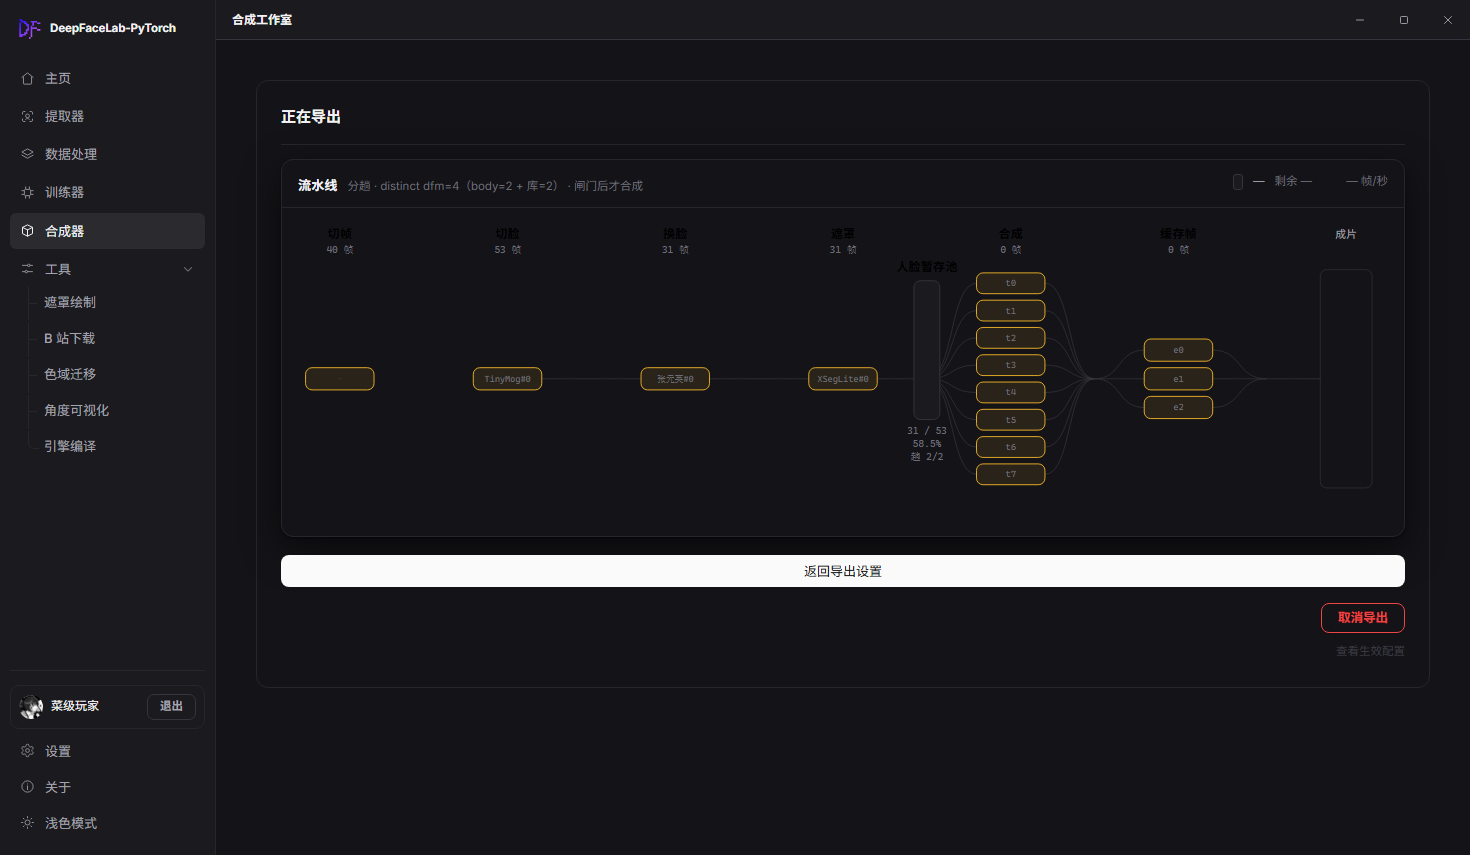
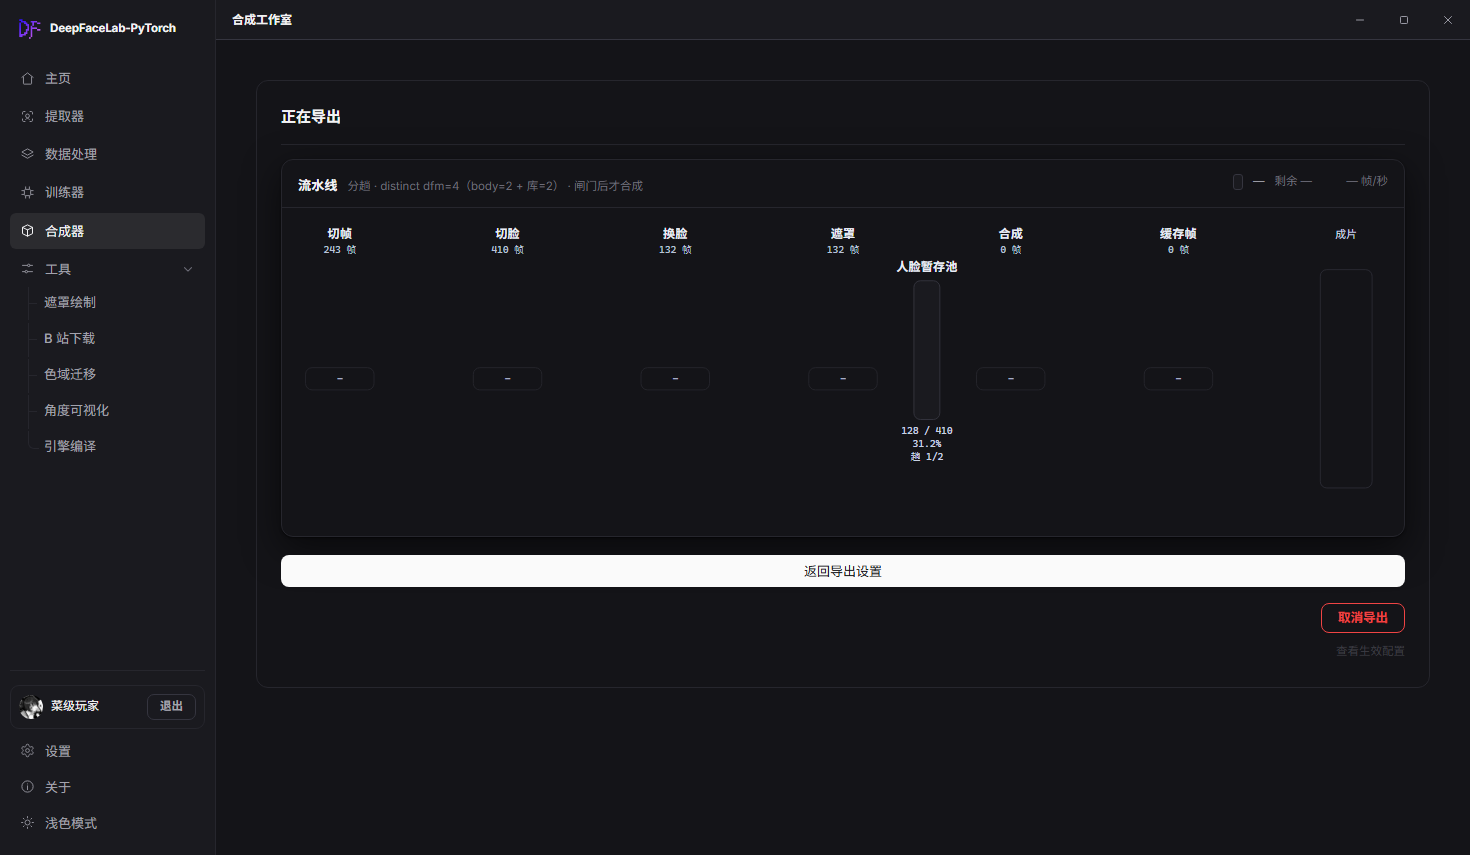
fix(ui): 分趟图上的字提亮 —— 深底上终于看得清
用户：文字颜色有问题，根本看不清。
原因：这些文字用的是 --ink-2 / --ink-3（次要色），在 #14151a 底上对比度太低；
另外 18-bypass 的「卡住 >600ms」逻辑把分趟的每一列都判成琥珀色（一趟一顿地跑，天然超时）。

改动（只改颜色，不动布局）：
  · 18-bypass：window.__mgMode === 'passes' 时不打 stall 标记；
  · 21：分趟轮询里把 #mgPipeSvg 内所有文字统一提亮 ——
    列标题 #e8ecf5、计数 #b9c2d6、其余（lane） #c9d2e4；
  · 列标题下的计数直接由 stages.ticks 写（paint 的 counts 通道在分趟这条路上不认）；
  · 后端：池的读数改成边跑边长（每 8 张脸刷一次 meta），不再等整趟结束。

无头 Edge 实测截图（跑到换脸中途）：
  切帧 243 帧 · 切脸 410 帧 · 换脸 132 帧 · 遮罩 132 帧 · 合成 0 · 缓存帧 0
  人脸暂存池 128 / 410 · 31.2% · 趟 1/2
  app/docs/notes/passes_live.png

还差的两点（没装成修好）：lane 方块里那行仍是占位「-」；池子的水位方块还没填上。

diff --git a/app/web/js/app/21-pipe-phases.js b/app/web/js/app/21-pipe-phases.js
@@ -57,14 +57,14 @@
                                  'class': 'water poolwater',
                                  style: 'fill:#4ea1ff;fill-opacity:.55' }));
     }
-    var t0 = el('text', { x: a.x, y: a.top - 10, 'text-anchor': 'middle', 'class': 't-stage' });
+    var t0 = el('text', { x: a.x, y: a.top - 10, 'text-anchor': 'middle', 'class': 't-stage', style: 'fill:#e8ecf5' });
     t0.textContent = '人脸暂存池'; g.appendChild(t0);
-    var t1 = el('text', { x: a.x, y: a.top + a.h + 16, 'text-anchor': 'middle', 'class': 't-count' });
+    var t1 = el('text', { x: a.x, y: a.top + a.h + 16, 'text-anchor': 'middle', 'class': 't-count', style: 'fill:#c9d2e4' });
     t1.textContent = scanning ? (faces + ' 张') : (faces + ' / ' + total); g.appendChild(t1);
-    var t2 = el('text', { x: a.x, y: a.top + a.h + 30, 'text-anchor': 'middle', 'class': 't-count' });
+    var t2 = el('text', { x: a.x, y: a.top + a.h + 30, 'text-anchor': 'middle', 'class': 't-count', style: 'fill:#c9d2e4' });
     t2.textContent = scanning ? '已发现（还在涨）' : (Math.round(pct * 1000) / 10) + '%'; g.appendChild(t2);
     var pi = d.pass_info || {};
-    var t3 = el('text', { x: a.x, y: a.top + a.h + 44, 'text-anchor': 'middle', 'class': 't-count' });
+    var t3 = el('text', { x: a.x, y: a.top + a.h + 44, 'text-anchor': 'middle', 'class': 't-count', style: 'fill:#c9d2e4' });
     t3.textContent = pi.i ? ('趟 ' + pi.i + '/' + pi.n) : ''; g.appendChild(t3);
     svg.appendChild(g);
   }
@@ -82,12 +82,54 @@
     if (!svg || document.visibilityState === 'hidden') return;
     fetch('/api/merge/export/status').then(function (r) { return r.json(); }).then(function (d) {
       syncSub(d);
+      window.__mgMode = (d && d.mode) || '';
       if (d && d.mode === 'passes') window.__mgPoolAfter = (d.mask_on === false) ? 'dfm' : 'xseg';
       /* 分趟这条路没有自己的轮询驱动经典图 —— 这里把 status 交给它，
          否则 lane 永远是「— 帧」、光点一次都不放（用户看到的就是"没动画"）。 */
       if (d && d.mode === 'passes') {
         try {
           if (typeof mgpStatusPaint === 'function') mgpStatusPaint(d);
+          /* 经典图里未点亮的 lane 用的是 --ink-3，深底上几乎看不见；
+             分趟这条路把字提亮一档（只改 fill，不动布局）。 */
+          var _svg = document.getElementById('mgPipeSvg');
+          if (_svg) {
+            /* 列标题下那行计数自己写：paint() 的 counts 通道在分趟这条路上不认
+               （它走 MGP 的 idx/counts，不是 stages），这里是唯一的真数来源。 */
+            var _sg = d.stages || {};
+            var _want = ["frames", "det", "dfm", "xseg", "compose", "encode"];
+            var _titles = [].slice.call(_svg.querySelectorAll('text.t-stage'));
+            var _counts = [].slice.call(_svg.querySelectorAll('text.t-count'));
+            _titles.forEach(function (t, i) {
+              var k = _want[i];
+              if (!k || !_counts[i]) return;
+              var v = (_sg[k] || {}).ticks;
+              if (typeof v === 'number') _counts[i].textContent = v + ' 帧';
+            });
+            var _laneName = {
+              frames: '解码', det: 'TinyMog#0',
+              dfm: ((d.pass_info || {}).label || '模型') + '#0',
+              xseg: 'XSegLite#0', compose: 't0', encode: 'e0'
+            };
+            _titles.forEach(function (t, i) {
+              var k = _want[i];
+              if (!k) return;
+              var col = t.parentNode;
+              if (!col) return;
+              var lt = col.querySelector('text.t-lane');
+              if (lt) {
+                var _cur = (lt.textContent || '').trim();
+                if (!_cur || _cur === '—' || _cur === '–' || _cur === '-') lt.textContent = _laneName[k] || k;
+              }
+            });
+            /* 深底上看不清的根因：这些文字用的是 --ink-2/--ink-3（次要色）。
+               分趟这条路统一提亮：标题 #e8ecf5、计数 #b9c2d6、其余 #c9d2e4。 */
+            [].slice.call(_svg.querySelectorAll('text')).forEach(function (t) {
+              var c = t.getAttribute('class') || '';
+              if (c.indexOf('t-stage') >= 0) t.style.fill = '#e8ecf5';
+              else if (c.indexOf('t-count') >= 0) t.style.fill = '#b9c2d6';
+              else t.style.fill = '#c9d2e4';
+            });
+          }
           else if (typeof window.mgpPipe === 'function') window.mgpPipe(d);
         } catch (e) { /* 渲染器内部报错不影响轮询 */ }
       }

diff --git a/app/web/js/app/18-bypass.js b/app/web/js/app/18-bypass.js
@@ -311,7 +311,7 @@
           wants.push(delta > 0 ? delta : 0);
           if (delta > 0) total += delta;
           /* 卡住 = 还在跑 + 这一段没完成 + 已经 >600ms 没 tick（tick 一恢复就自动复原） */
-          markStall(k, running && state[k] !== "done" &&
+          markStall(k, window.__mgMode !== "passes" && running && state[k] !== "done" &&
                        (t - (lastAt[k] || t)) > STALL_MS);
         }
         /* 这一拍放多少个光点：按 PULSE_PER_S 折算的预算**按比例**稀释（各段比例不变），

diff --git a/app/server/backend_merge/pipeline_passes.py b/app/server/backend_merge/pipeline_passes.py
@@ -143,12 +143,23 @@ def run(cfg, log=print, progress=None, cancelled=None) -> dict:
                  "pass_label": nm, "faces_done": done_faces,
                  "faces_total": total_faces, "pool": done_faces,
                  "mask_on": bool(_mask_on), "frozen": True})
+        _live = {"faces": 0}
+
         def _on_face(n, _nm=nm):
             try:
                 _METER.tick("dfm", n)
                 if _mask_on:
                     _METER.tick("xseg", n)
                 _METER.note_batch({"dfm": n})
+                _live["faces"] += int(n)
+                if _live["faces"] % 8 == 0:          # 池子边跑边长，别等整趟结束
+                    _p(2 + int(40 * (k - 1) / max(1, len(todo))),
+                       "分趟导出：第 %d/%d 趟 · %s" % (k, len(todo), _nm),
+                       meta={"phase": "pass", "pass_i": k, "pass_n": len(todo),
+                             "pass_label": _nm, "faces_done": done_faces + _live["faces"],
+                             "faces_total": total_faces,
+                             "pool": done_faces + _live["faces"],
+                             "mask_on": bool(_mask_on), "frozen": True})
             except Exception:                                 # noqa: BLE001
                 pass
 
